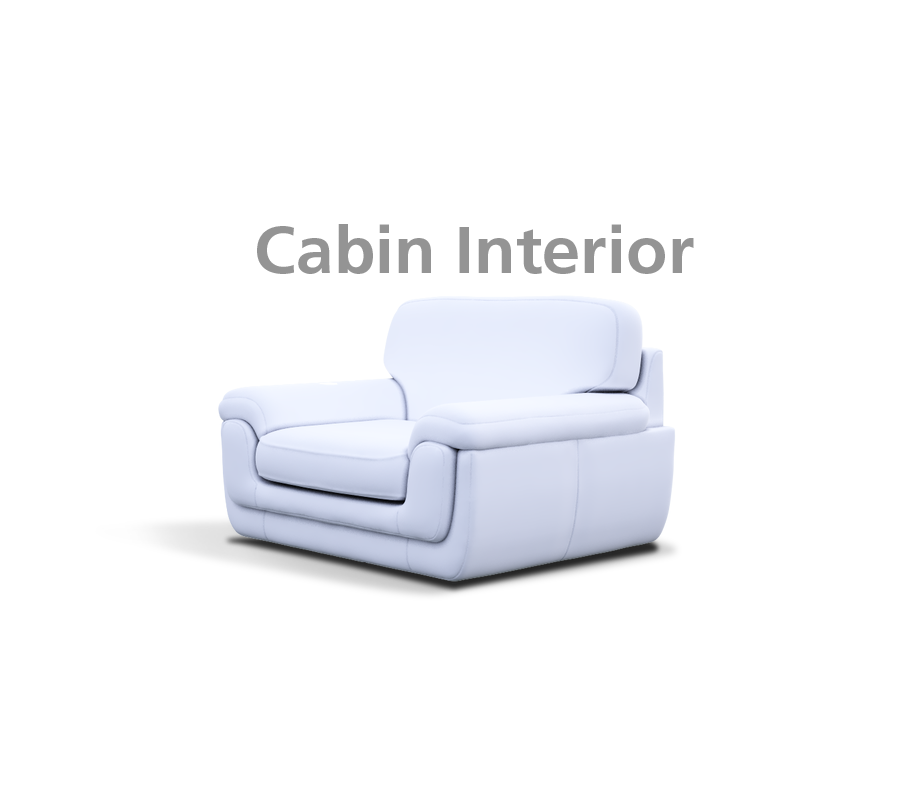
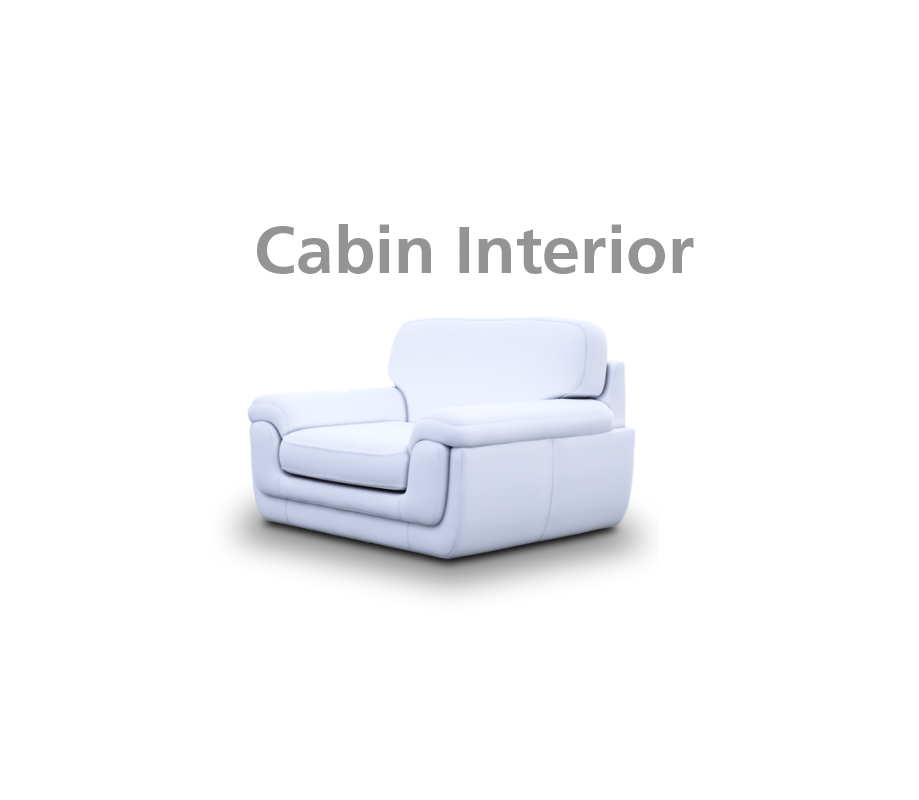
better transitions

Changed region(s): [[0.1828, 0.375, 0.7312, 0.75], [0.4266, 0.4688, 0.457, 0.5]]

diff --git a/Assets/scripts/pages/PageMainTopic.cs b/Assets/scripts/pages/PageMainTopic.cs
@@ -3,6 +3,7 @@ using System.Collections;
 using Holoville.HOTween;
 using System.Xml;
 using System.Collections.Generic;
+using System;
 
 public class PageMainTopic : BasePage {
 
@@ -47,12 +48,12 @@ public class PageMainTopic : BasePage {
 
         SelectedItemInPosition = new Vector3[6];
         //SelectedItemInPosition = new Vector3(0.1683824f, -0.05769891f, 11.72f);
-        SelectedItemInPosition[0] = new Vector3(0.185f, -0.06f, 12.25f);//limo
+        SelectedItemInPosition[0] = new Vector3(0.16f, -0.043f, 11.79f);//limo
         SelectedItemInPosition[1] = new Vector3(0.31f, 0.04f, 11.8f);//stamp
-        SelectedItemInPosition[2] = new Vector3(0.146f, -0.065f, 12.237f);//knife
-        SelectedItemInPosition[3] = new Vector3(0.345f, -0.044f, 11.865f);//system
-        SelectedItemInPosition[4] = new Vector3(0.361f, -0.053f, 12.078f);//cabin
-        SelectedItemInPosition[5] = new Vector3(0.255f, -0.06f, 12.606f);//paint
+        SelectedItemInPosition[2] = new Vector3(0.139f, -0.017f, 11.8f);//knife
+        SelectedItemInPosition[3] = new Vector3(0.345f, -0.044f, 11.857f);//system
+        SelectedItemInPosition[4] = new Vector3(0.31f, -0.03f, 11.79f);//cabin
+        SelectedItemInPosition[5] = new Vector3(0.177f, -0.055f, 11.78f);//paint
 
         //back butt
         createStandardBack();
@@ -226,7 +227,7 @@ public class PageMainTopic : BasePage {
     }
 
 
-    override public void DoEnter(float previousDelay, Object extraParams, string extraData = null) {
+    override public void DoEnter(float previousDelay, UnityEngine.Object extraParams, string extraData = null) {
         float FlatTransitionDelay = ((extraData == null) ? 0 : 0.8f);
 
         SideMenuTransitionData.InDelay = 0.2f + FlatTransitionDelay;
@@ -249,6 +250,7 @@ public class PageMainTopic : BasePage {
         } else {
             FlatTransitionTexture.SetTexture(FlatTransitionSeq[SelectedFlatTransition][0]);
             FlatTransitionTexture.Enabled = true;
+            FlatTransitionTexture.Alpha = 1;
             FlatTransitionTime = 0;
             FlatTransitionFrame = 0;
             FlatTransitionPlaying = true;
@@ -311,20 +313,30 @@ public class PageMainTopic : BasePage {
                     FlatTransitionFrame = frame;
                 } else {
                     //Resources.UnloadUnusedAssets();
+                    //HOTween.To(FlatTransitionTexture, 0.1f, new TweenParms().Prop("Alpha", 0).Ease(EaseType.Linear).Delay(0.075f).OnComplete(TransitionFadeComplete));
                     FlatTransitionTexture.Enabled = false;
                     FlatTransitionPlaying = false;
                     unloadFlatTransitionAssets();
 
                     CentralObject.transform.parent = this.transform;
 
+                    CentralObject.GetComponent<Renderer>().material.color = AlphaColorOpaque;
+                    //CentralObject.GetComponent<Renderer>().material.color = AlphaColorTransparent;
+
                     CentralObject.transform.localPosition = SelectedItemInPosition[SelectedFlatTransition];
                     CentralObject.transform.rotation = Quaternion.Euler(0, 2.32194f, 0);
                     CentralObject.transform.localScale = new Vector3(1.342f, 1.2f, 1.1f);
-                    CentralObject.GetComponent<Renderer>().material.color = AlphaColorOpaque;
 
+                    //HOTween.To(CentralObject.GetComponent<Renderer>().material, 0.1f, new TweenParms().Prop("color", AlphaColorOpaque).Ease(EaseType.Linear).OnComplete(TransitionFadeComplete));
                 }
             }
         }
+    }
+
+
+    
+    private void TransitionFadeComplete() {
+        FlatTransitionTexture.Enabled = false;
     }
 
     private void unloadFlatTransitionAssets() {
